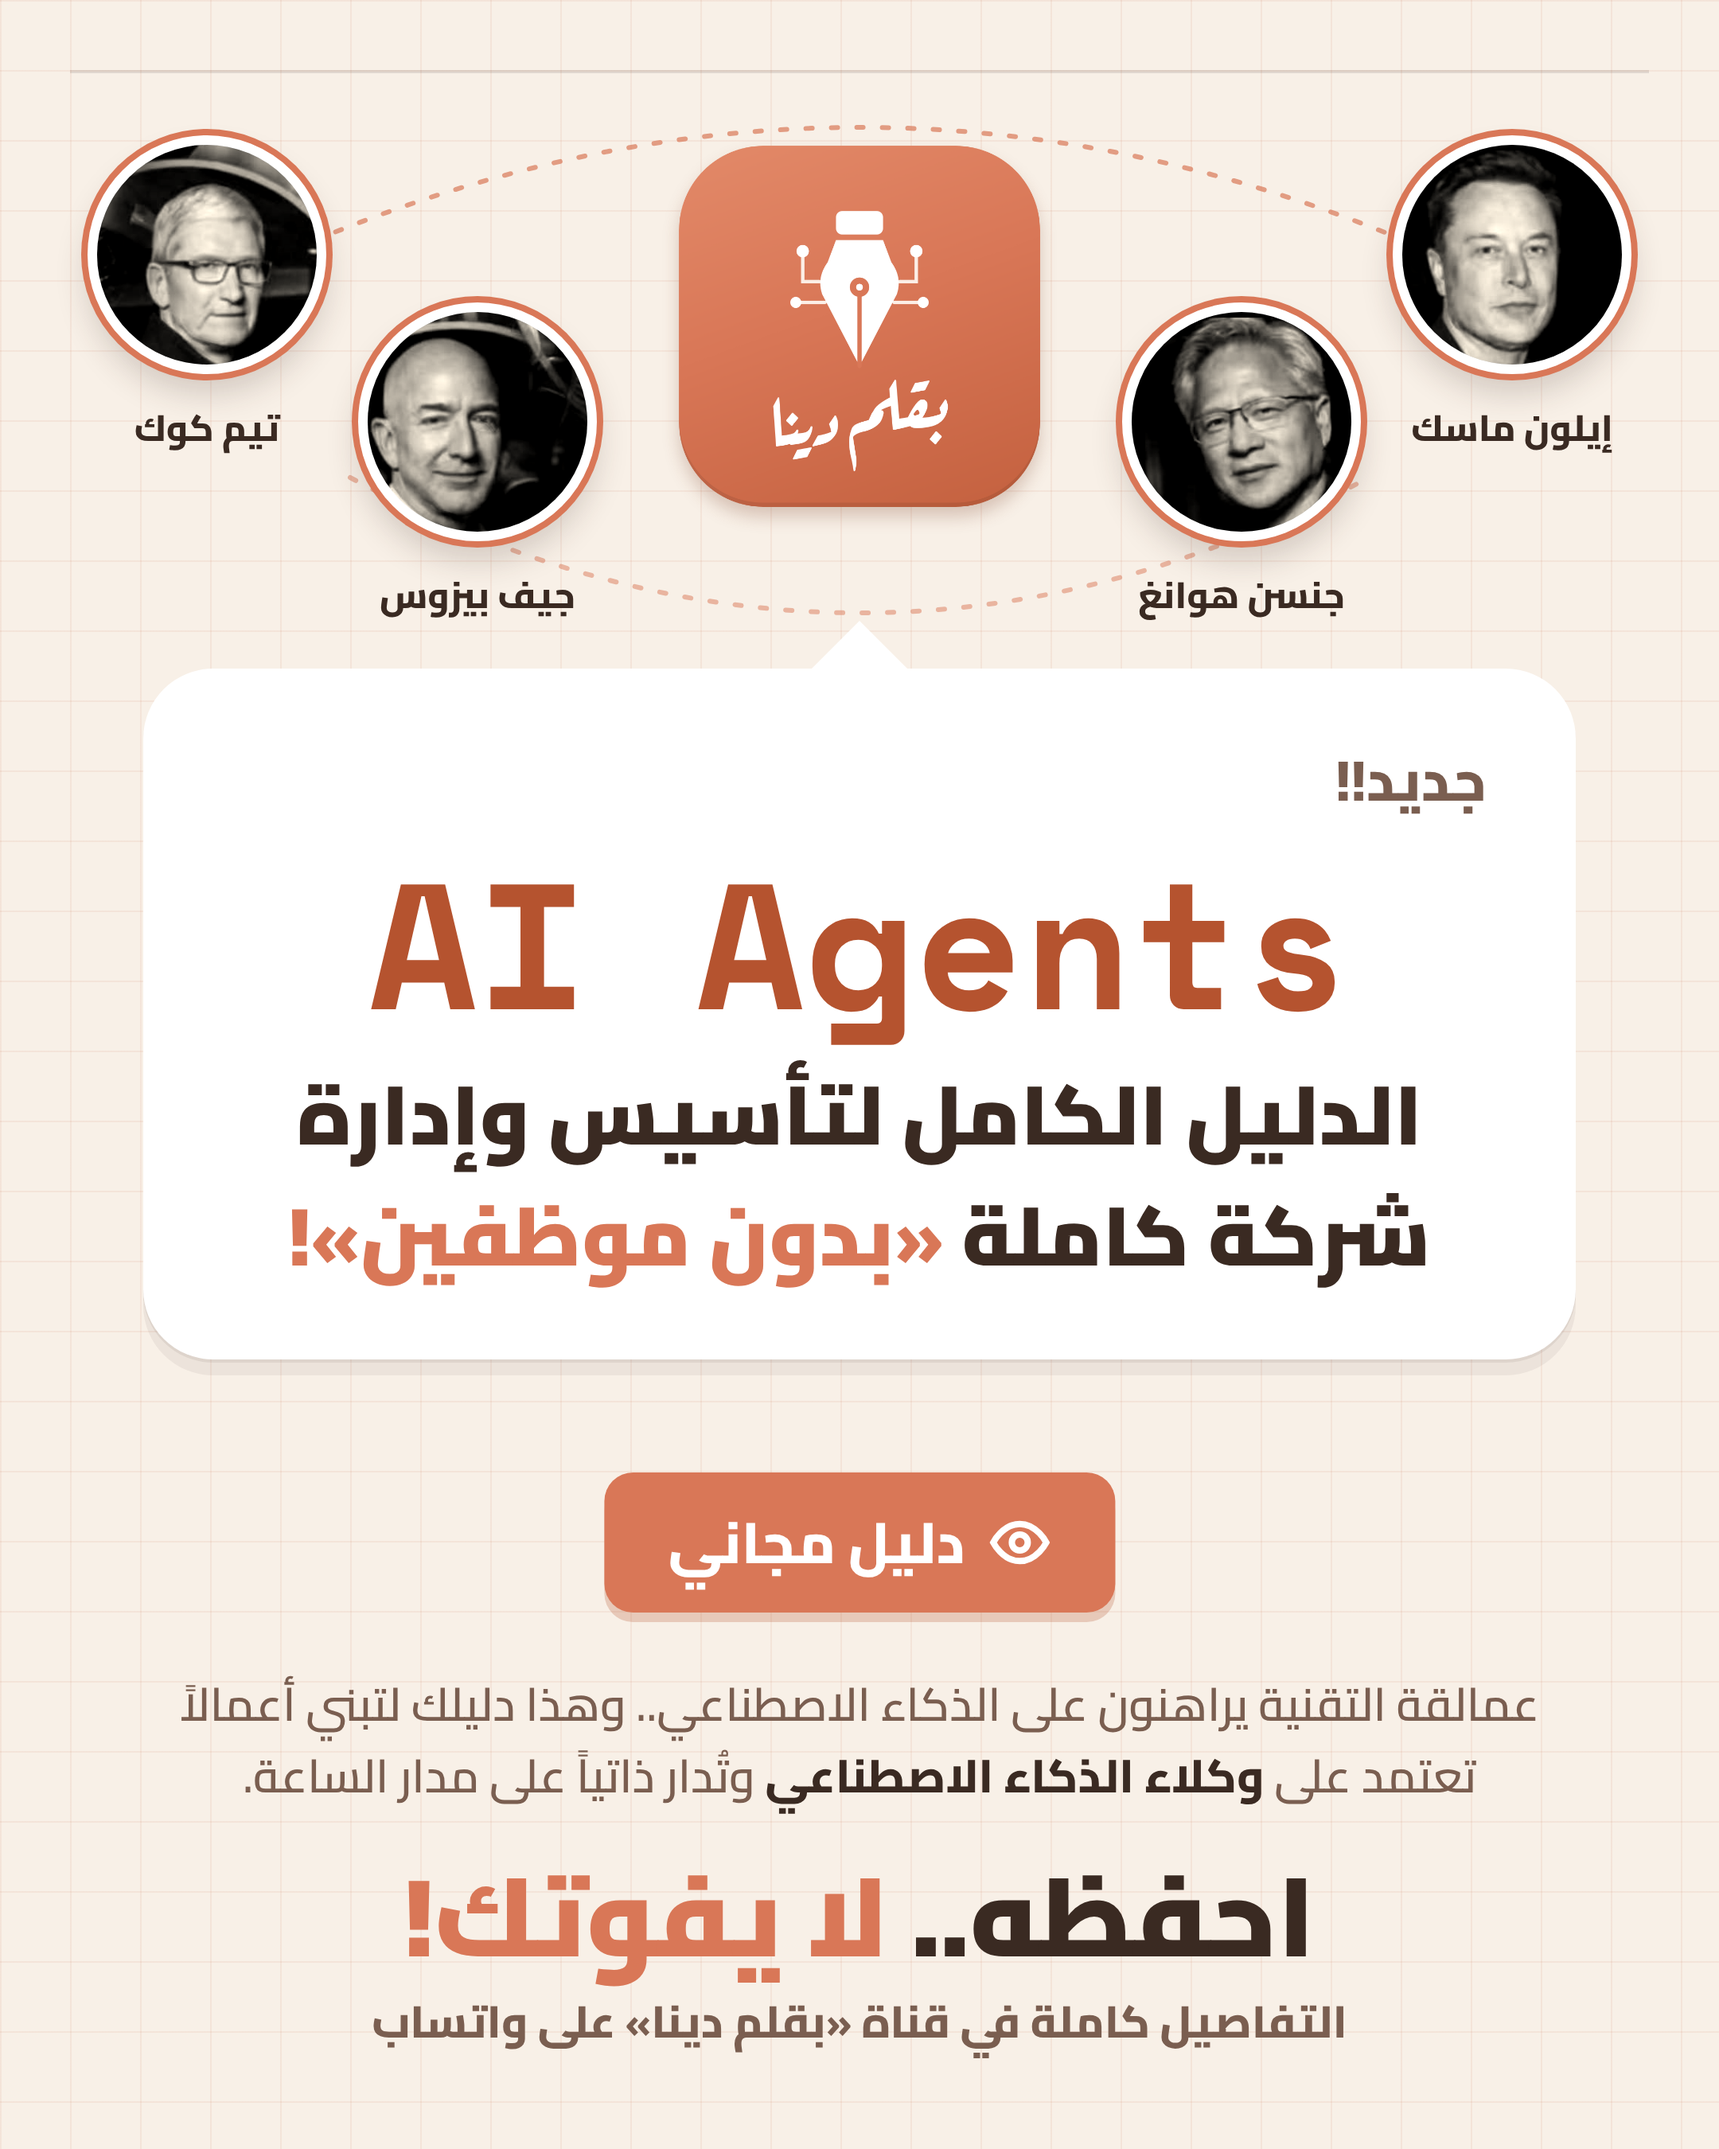
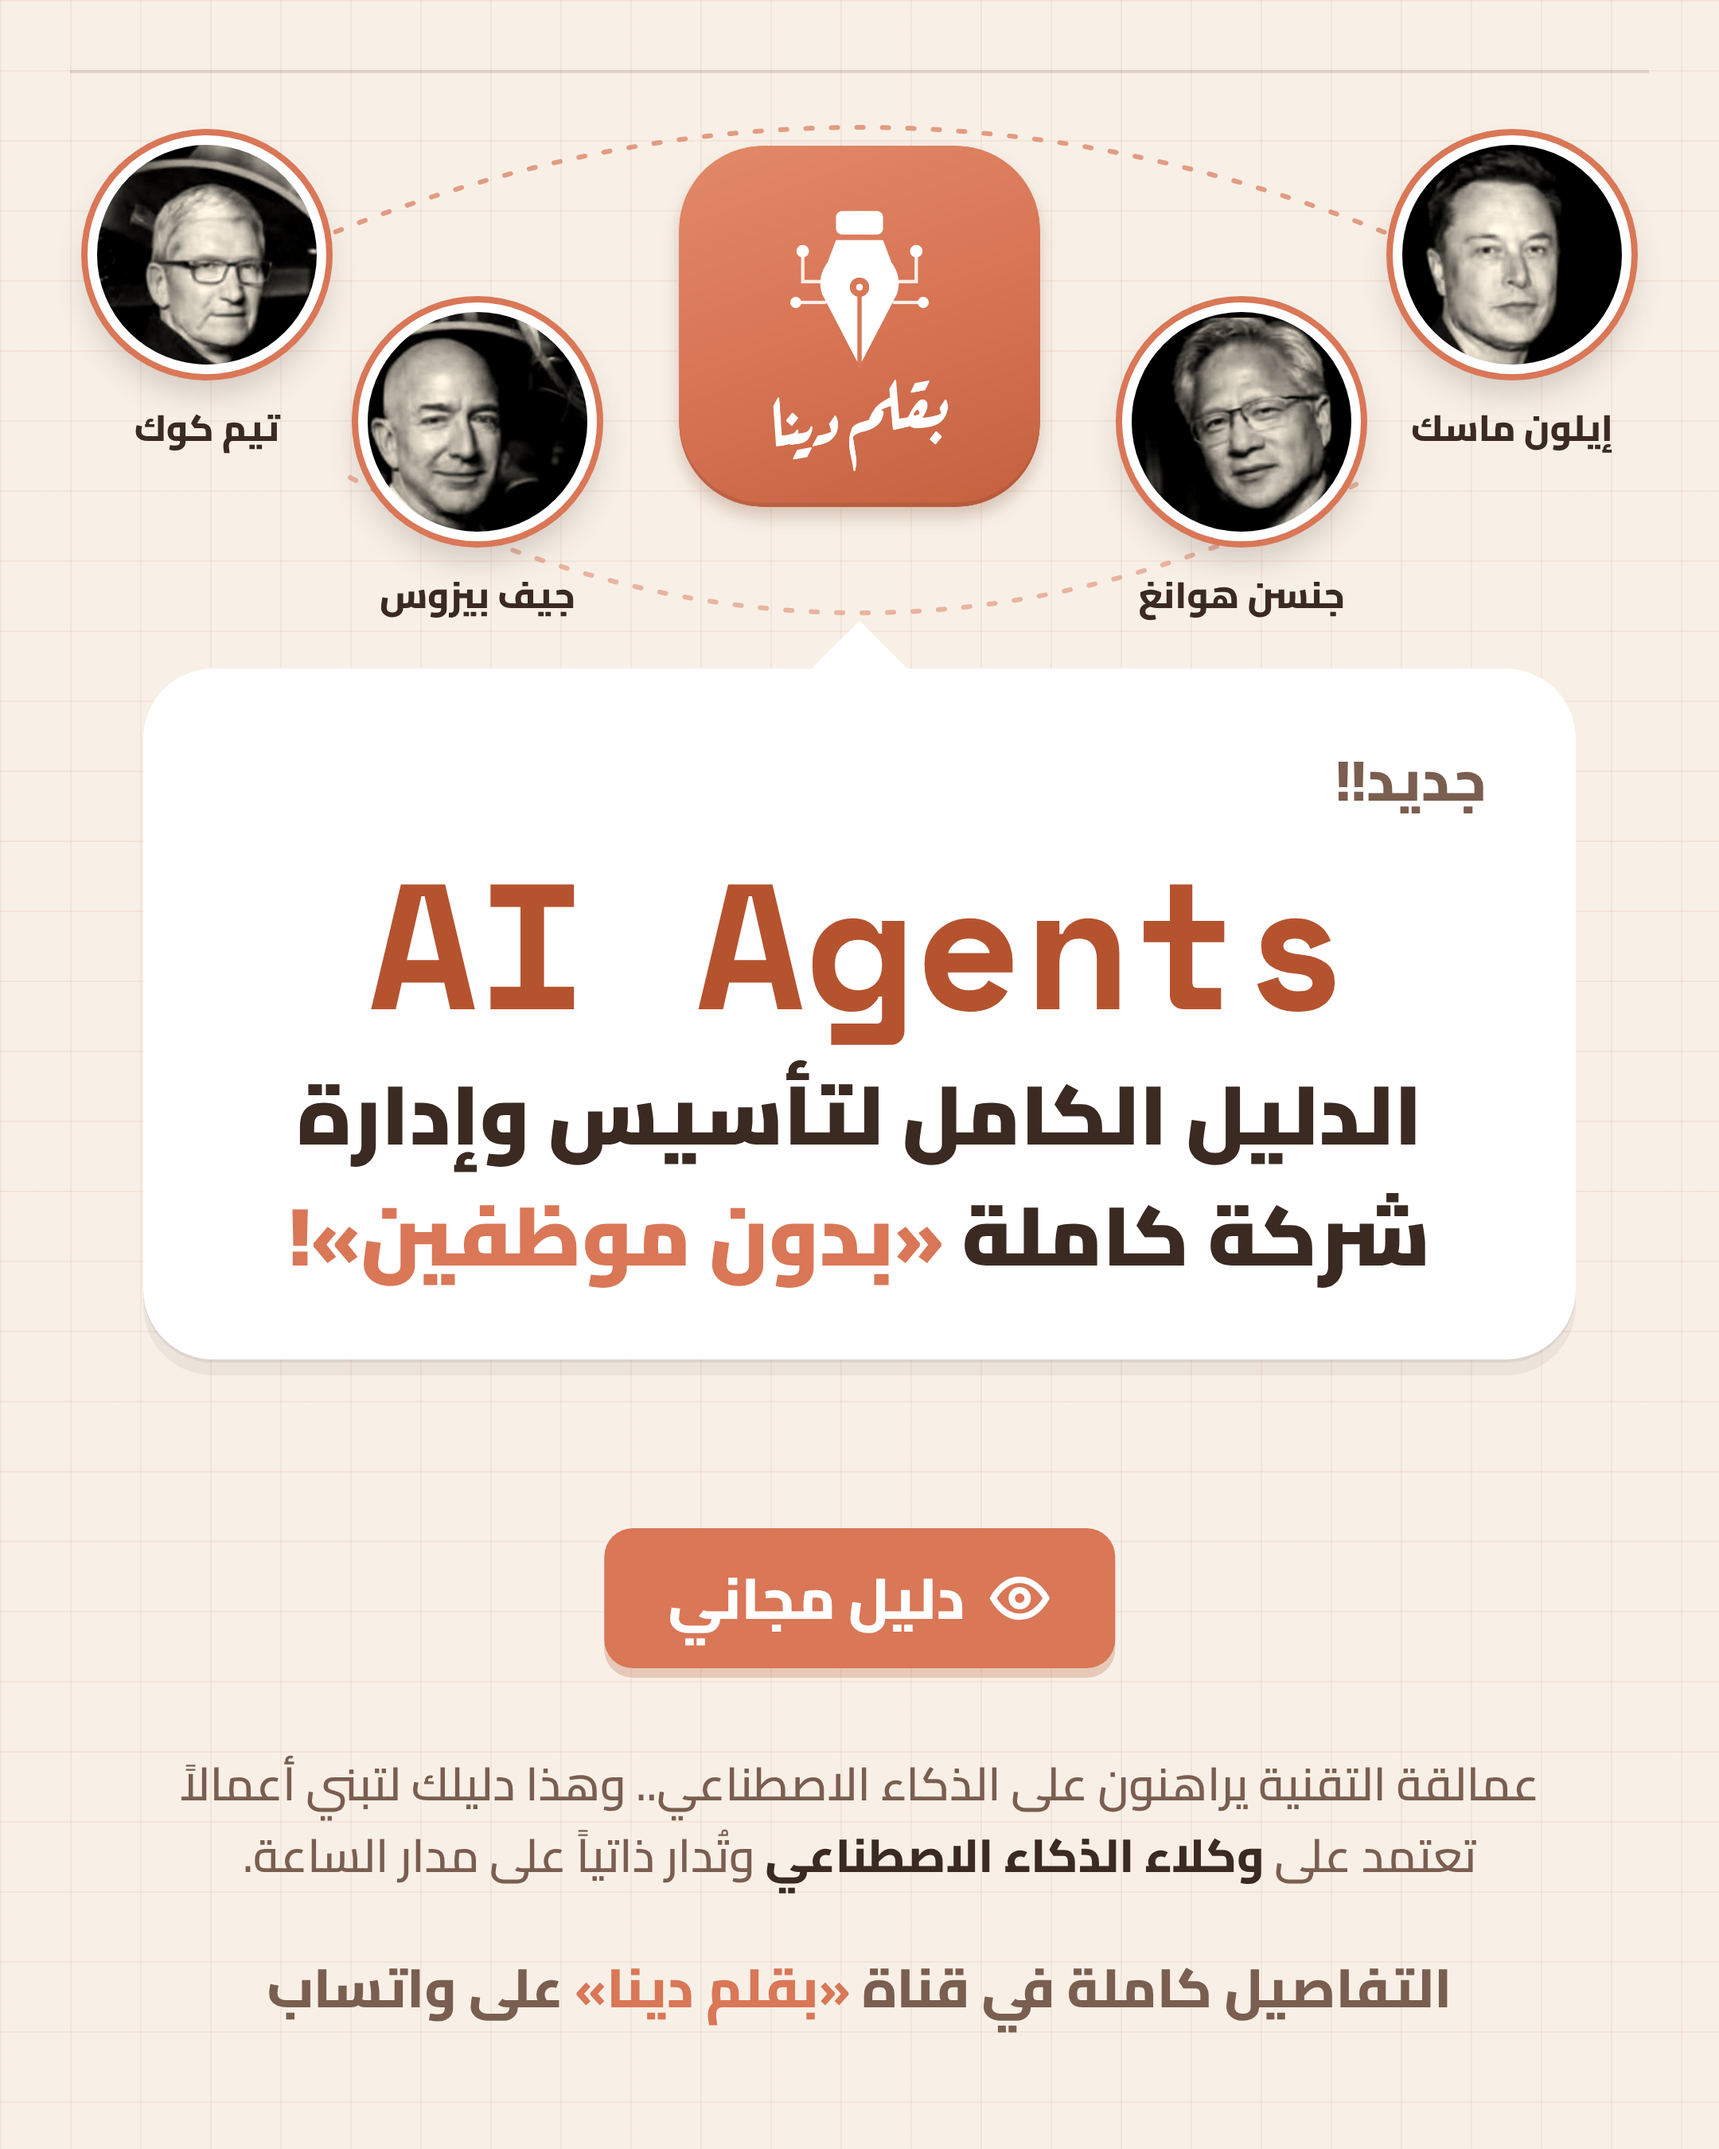
Remove save CTA line from poster
Claude-Session: https://claude.ai/code/session_01WbG8vwdKBncaRQ92ZPxpAT

Changed region(s): [[0.0931, 0.6844, 0.8995, 0.9644]]

diff --git a/bi-qalam-dina/poster.html b/bi-qalam-dina/poster.html
@@ -14,12 +14,12 @@
 .big{font-family:'Space Mono',monospace;font-weight:700;font-size:112px;color:var(--accent2);direction:ltr;text-align:center;line-height:1.1;margin:6px 0 10px}
 .h{font-weight:900;font-size:52px;line-height:1.45;text-align:center;margin:0}
 .h span{color:var(--accent)}
-.pill{position:absolute;top:925px;left:50%;transform:translateX(-50%);background:var(--accent);color:#fff;font-weight:800;font-size:36px;padding:10px 40px;border-radius:18px;display:flex;align-items:center;gap:14px;box-shadow:0 6px 0 rgba(181,83,47,.25);white-space:nowrap}
-.sub{position:absolute;top:1020px;left:90px;right:90px;text-align:center;font-weight:600;font-size:29px;line-height:1.55;color:var(--muted)}
+.pill{position:absolute;top:960px;left:50%;transform:translateX(-50%);background:var(--accent);color:#fff;font-weight:800;font-size:36px;padding:10px 40px;border-radius:18px;display:flex;align-items:center;gap:14px;box-shadow:0 6px 0 rgba(181,83,47,.25);white-space:nowrap}
+.sub{position:absolute;top:1070px;left:90px;right:90px;text-align:center;font-weight:600;font-size:29px;line-height:1.55;color:var(--muted)}
 .sub b{color:var(--brown);font-weight:800}
-.cta{position:absolute;bottom:62px;left:0;right:0;text-align:center;font-weight:900;font-size:70px;line-height:1.2}
+.cta{position:absolute;bottom:80px;left:0;right:0;text-align:center;font-weight:900;font-size:70px;line-height:1.2}
 .cta span{color:var(--accent)}
-.cta small{display:block;font-size:28px;font-weight:700;color:var(--muted);margin-top:8px}
+.cta small{display:block;font-size:34px;font-weight:700;color:var(--muted);margin-top:8px}
 .av{position:absolute;width:150px;text-align:center}
 .av .ph{width:150px;height:150px;border-radius:50%;overflow:hidden;border:6px solid #fff;box-shadow:0 0 0 4px var(--accent),0 12px 20px rgba(58,42,34,.2);background:#ddd}
 .av img{width:100%;height:100%;object-fit:cover;transform:scale(1.18) translateY(6%);filter:grayscale(1) sepia(.28) contrast(1.08) brightness(1.04)}
@@ -41,6 +41,6 @@
  </div>
  <div class="pill"><svg width="40" height="40" viewBox="0 0 24 24" fill="none" stroke="#fff" stroke-width="2.4"><path d="M2 12s3.6-7 10-7 10 7 10 7-3.6 7-10 7S2 12 2 12z"/><circle cx="12" cy="12" r="3"/></svg>دليل مجاني</div>
  <p class="sub">عمالقة التقنية يراهنون على الذكاء الاصطناعي.. وهذا دليلك لتبني أعمالاً تعتمد على <b>وكلاء الذكاء الاصطناعي</b> وتُدار ذاتياً على مدار الساعة.</p>
- <div class="cta">احفظه.. <span>لا يفوتك!</span><small>التفاصيل كاملة في قناة «بقلم دينا» على واتساب</small></div>
+ <div class="cta"><small>التفاصيل كاملة في قناة <span>«بقلم دينا»</span> على واتساب</small></div>
 </div>
 </body></html>
